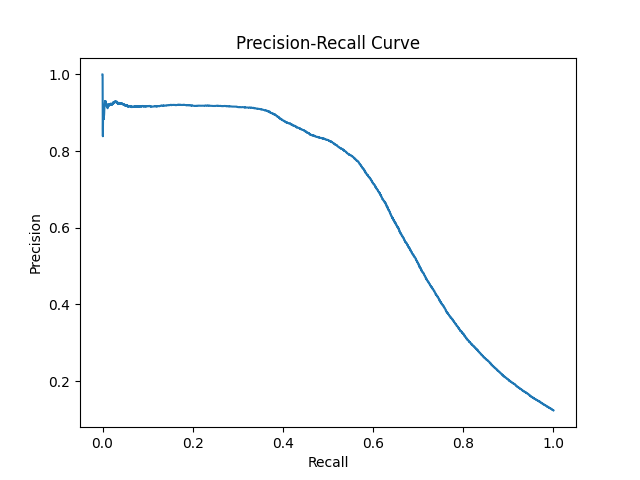
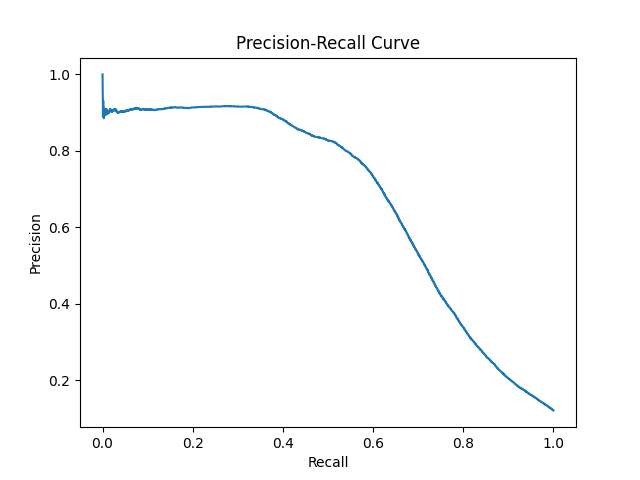
recover lost data

diff --git a/logistic_regression.py b/logistic_regression.py
@@ -321,7 +321,6 @@ with mlflow.start_run(run_name='test'):
     cm_pd.to_csv("confusion_matrix.csv", index=False)
     mlflow.log_artifact("confusion_matrix.csv")
 
-
     pdf = test_preds.select("p_churn", "next_7d_churn_idx").toPandas()
 
     precision_arr, recall_arr, _ = precision_recall_curve(